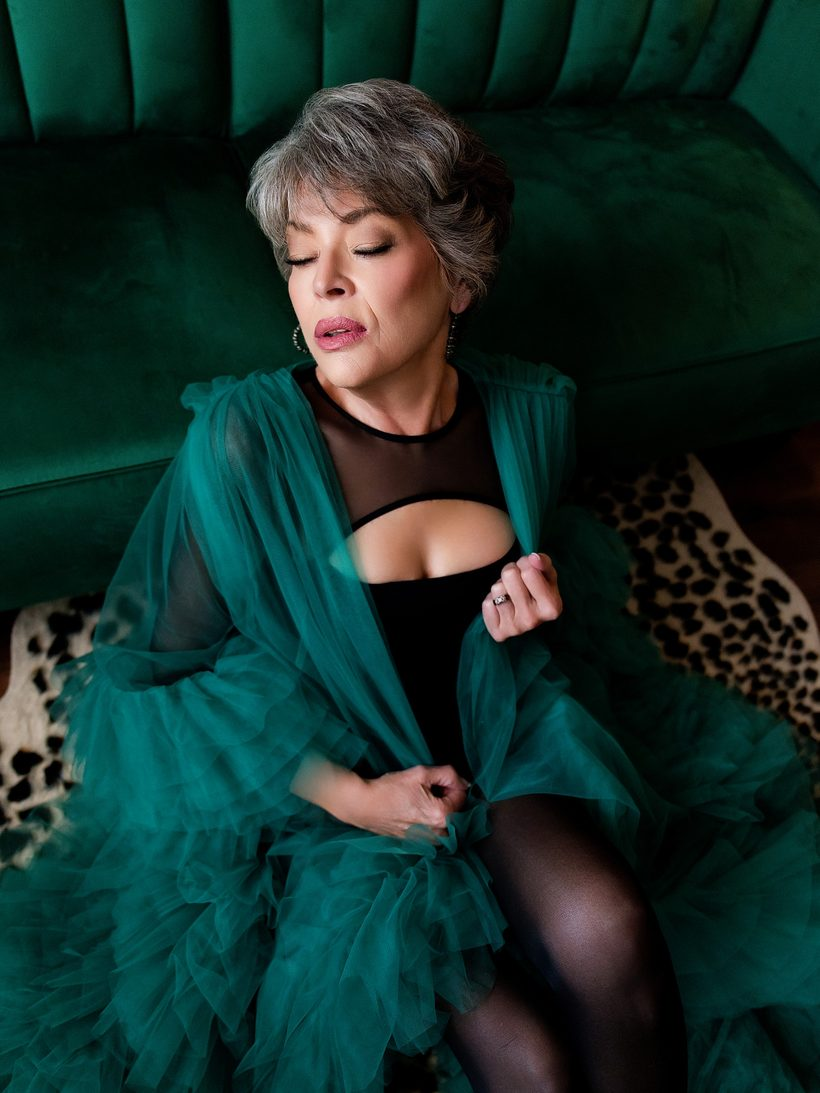
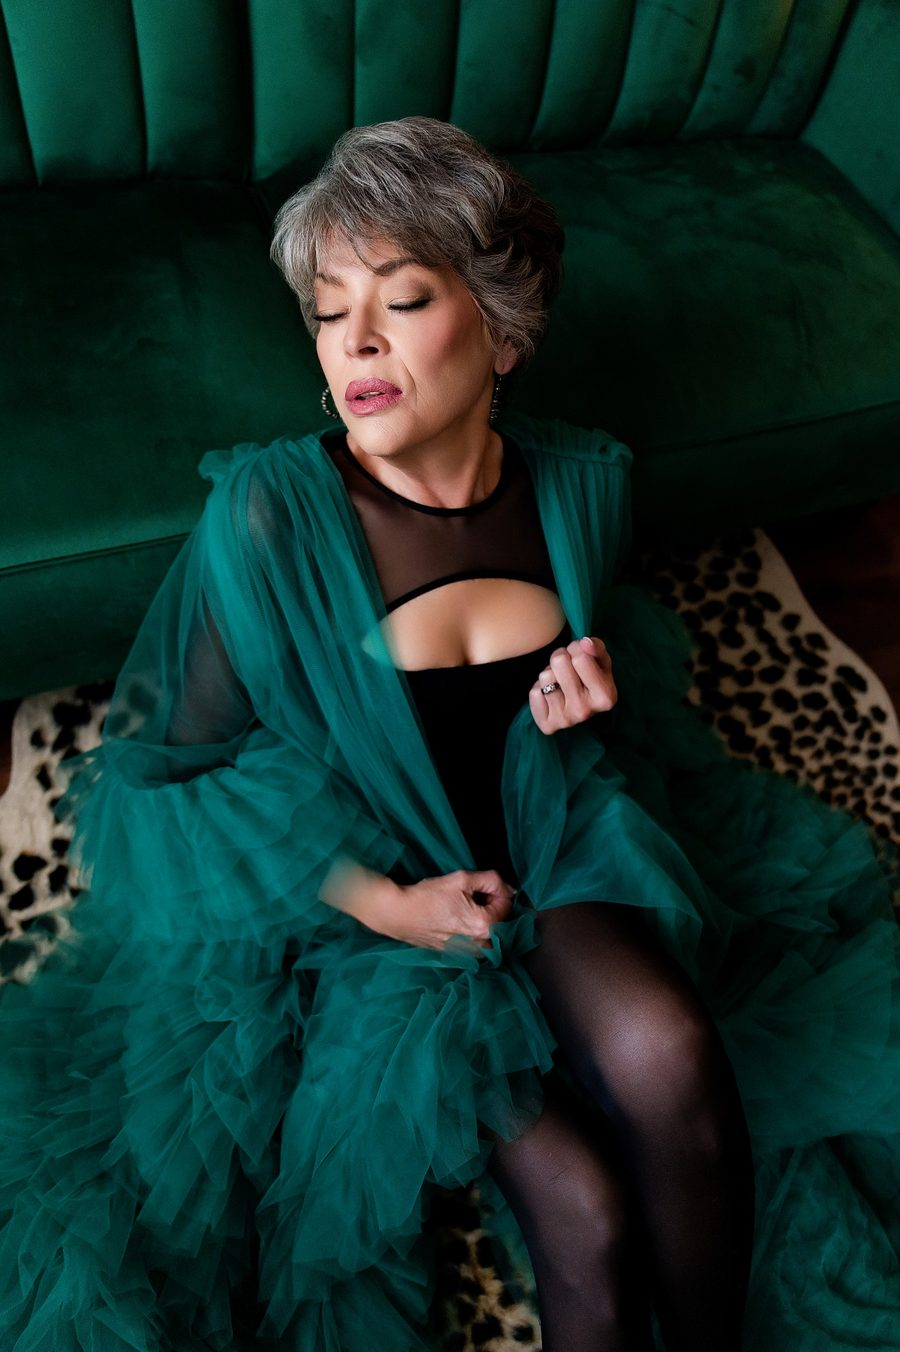
Stop cropping images to fit their containers
Every derivative is regenerated from the uncropped original, scaled to
width only. No aspect-ratio boxes, no object-fit: cover anywhere on the
page; containers now size to the photograph instead of the photograph
being trimmed to the container.

Recovered by this: the hero's full 3:2 frame rather than a 16:9 slice,
the whole standing figure in the before, and the top and bottom of
every portrait in the imagery and review rows.

Consequence, and it is visible: rows of images no longer align along
the bottom, because the pictures are different shapes. Grids switched
to align-items:start so they sit honestly rather than stretching.

DSC_0927-BW is now the only landscape frame among the three reviews and
sits noticeably shorter than its neighbours. Flagged in the kit rather
than silently swapped, since picking images is Jessica's call.

Kit and picker updated to match: the guidance said to crop to 16:9 and
3:4, the picker labelled each slot with a ratio and shaped its previews
with object-fit. All of that now says full frame.

Claude-Session: https://claude.ai/code/session_01WUSgWYuPdNHtkfGKppnMt9

diff --git a/dark-studio-identity.html b/dark-studio-identity.html
@@ -117,18 +117,17 @@
   .mk-nav span{font-family:var(--sans); font-weight:400; font-size:9.5px; letter-spacing:.24em;
     text-transform:uppercase; color:var(--muted)}
   .mk-logo{font-family:var(--serif); font-size:17px; letter-spacing:.14em; color:var(--gold); text-transform:uppercase}
-  .shot{display:block; width:100%; height:100%; object-fit:cover; max-width:100%;
+  .shot{display:block; width:100%; height:auto; max-width:100%;
     filter:saturate(.96) contrast(1.02)}
   .shotbox{overflow:hidden; position:relative;
     background:
       repeating-linear-gradient(135deg, rgba(201,162,75,.05) 0 2px, transparent 2px 9px),
       linear-gradient(160deg, #2A221B 0%, #1A1512 60%, #221A14 100%)}
-  .ph-note{position:absolute; left:50%; top:50%; transform:translate(-50%,-50%);
+  .ph-note{position:absolute; left:50%; top:50%; transform:translate(-50%,-50%); pointer-events:none;
     font-family:var(--mono); font-size:9.5px; letter-spacing:.14em; text-transform:uppercase;
     color:var(--dim); text-align:center; width:90%; line-height:1.5}
   .mk-strip{display:grid; grid-template-columns:repeat(4,1fr); gap:10px; max-width:1000px; margin:0 auto}
   @media (max-width:620px){ .mk-strip{grid-template-columns:repeat(2,1fr)} }
-  .mk-strip .shotbox{aspect-ratio:3/4}
   .mk-ticker{border-top:1px solid var(--line-soft); border-bottom:1px solid var(--line-soft);
     padding:13px 0; overflow:hidden; white-space:nowrap; background:var(--surface)}
   .mk-ticker span{font-family:var(--sans); font-size:10.5px; letter-spacing:.26em; text-transform:uppercase;
@@ -143,16 +142,14 @@
   .mk-q .qa{font-family:var(--sans); font-size:9.5px; letter-spacing:.2em; text-transform:uppercase; color:var(--gold); margin:0}
   .mk-q.slot .qt{color:var(--dim); font-style:normal; font-family:var(--mono); font-size:11px; letter-spacing:.1em; text-transform:uppercase; line-height:1.7}
   .mk-two-cta{display:flex; gap:12px; justify-content:center; flex-wrap:wrap; margin-top:20px}
-  .mk-trio{display:grid; grid-template-columns:repeat(3,1fr); gap:14px; max-width:940px; margin:0 auto}
+  .mk-trio{display:grid; grid-template-columns:repeat(3,1fr); gap:14px; max-width:940px; margin:0 auto; align-items:start}
   @media (max-width:700px){ .mk-trio{grid-template-columns:1fr} }
-  .mk-trio .shotbox{aspect-ratio:3/4}
   .mk-empower{font-family:var(--serif); font-weight:400; font-size:clamp(21px,3.2vw,29px);
     line-height:1.5; color:var(--ink); max-width:26ch; margin:0 auto; text-align:center}
   .mk-empower .hi{color:var(--gold-bright)}
-  .mk-rev{display:grid; grid-template-columns:repeat(3,1fr); gap:18px; max-width:980px; margin:26px auto 0}
+  .mk-rev{display:grid; grid-template-columns:repeat(3,1fr); gap:18px; max-width:980px; margin:26px auto 0; align-items:start}
   @media (max-width:760px){ .mk-rev{grid-template-columns:1fr} }
   .mk-rev article{background:var(--surface); border:1px solid var(--line-soft); border-radius:3px; overflow:hidden}
-  .mk-rev .shotbox{aspect-ratio:3/4}
   .mk-rev .rv{padding:18px 18px 20px}
   .mk-rev .stars{color:var(--gold); font-size:12px; letter-spacing:.24em; margin:0 0 10px}
   .mk-rev .qt{font-family:var(--serif); font-style:italic; font-size:15.5px; line-height:1.6; color:var(--muted); margin:0 0 12px}
@@ -167,11 +164,8 @@
   .mk-ghl{font-family:var(--mono); font-size:10px; letter-spacing:.12em; text-transform:uppercase;
     color:var(--dim); margin:12px 0 0; text-align:center}
   .mk-band-img{margin:24px auto 0; max-width:760px}
-  .mk-band-img .shotbox{aspect-ratio:3/2}
   .mk-hero{position:relative}
-  .mk-hero .shotbox{height:560px}
-  @media (max-width:860px){ .mk-hero .shotbox{height:440px} }
-  @media (max-width:620px){ .mk-hero .shotbox{height:400px} }
+
   .mk-hero .over{position:absolute; inset:0; display:flex; flex-direction:column;
     align-items:flex-start; justify-content:flex-end; gap:12px; text-align:left;
     padding:0 clamp(20px,5vw,56px) clamp(30px,4.5vw,48px);
@@ -182,9 +176,9 @@
   .mk-hero .ttl{font-family:var(--serif); font-weight:500; font-size:clamp(32px,6.4vw,62px); line-height:1.03; margin:0; letter-spacing:.01em}
   .mk-sec{padding:48px 30px; border-bottom:1px solid var(--line-soft)}
   @media (max-width:620px){ .mk-sec{padding:34px 18px} }
-  .mk-two{display:grid; grid-template-columns:1fr 1fr; gap:30px; align-items:center; max-width:880px; margin:0 auto}
+  .mk-two{display:grid; grid-template-columns:1fr 1fr; gap:30px; align-items:start; max-width:880px; margin:0 auto}
   @media (max-width:620px){ .mk-two{grid-template-columns:1fr; gap:20px} }
-  .mk-two .shotbox{aspect-ratio:4/5; border:1px solid var(--line-soft)}
+  .mk-two .shotbox{border:1px solid var(--line-soft)}
   .mk-kicker{font-family:var(--sans); font-size:9.5px; letter-spacing:.28em; text-transform:uppercase; color:var(--gold); margin:0 0 10px}
   .mk-h{font-family:var(--serif); font-weight:500; font-size:30px; line-height:1.16; margin:0 0 14px; letter-spacing:.02em}
   .mk-p{font-family:var(--sans); font-weight:300; font-size:14.5px; line-height:1.78; color:var(--muted); margin:0 0 18px}
@@ -199,8 +193,8 @@
     width:7px; height:1px; background:var(--gold)}
   .mk-band{background:var(--surface); padding:52px 30px; text-align:center; border-bottom:1px solid var(--line-soft)}
   .mk-band .mk-h{margin-bottom:8px}
-  .mk-ba{display:grid; grid-template-columns:1fr 1fr; gap:14px; max-width:620px; margin:22px auto 0}
-  .mk-ba .shotbox{aspect-ratio:3/4; border:1px solid var(--line-soft)}
+  .mk-ba{display:grid; grid-template-columns:1fr 1fr; gap:14px; max-width:680px; margin:22px auto 0; align-items:start}
+  .mk-ba .shotbox{border:1px solid var(--line-soft)}
   .mk-foot{padding:30px; text-align:center}
   .mk-foot .fl{display:flex; gap:20px; justify-content:center; flex-wrap:wrap; margin-bottom:14px}
   .mk-foot .fl span{font-family:var(--sans); font-size:9.5px; letter-spacing:.2em; text-transform:uppercase; color:var(--muted)}
@@ -410,7 +404,7 @@
 
         <div class="mk-sec">
           <div class="mk-two">
-            <div class="shotbox" style="aspect-ratio:4/5"><img class="shot" src="assets/jess.jpg" alt="Jessica Haslag, boudoir photographer, holding her camera"></div>
+            <div class="shotbox"><img class="shot" src="assets/jess.jpg" alt="Jessica Haslag, boudoir photographer, holding her camera"></div>
             <div>
               <p class="mk-kicker">Meet your photographer</p>
               <h3 class="mk-h" style="color:var(--ink); margin-top:0">Howdy, I&rsquo;m Jess</h3>

diff --git a/showit-revamp-kit.html b/showit-revamp-kit.html
@@ -311,7 +311,7 @@ Book a Call</div>
         <div class="paste">
           <div class="ph"><span class="loc">intro<span class="arrow">→</span>background image</span><button class="btn" type="button">Copy</button></div>
           <div class="pb">DSC_1279-BW.jpg</div>
-          <p class="note">Rear view on the emerald sofa, brick, warm lamp — the gold leaf in that painting is almost exactly <code>#C9A24B</code>. Crop to <b>16:9</b> and give it real height — around 80% of the screen on desktop. A short hero band reads like a page header; a tall one reads like a statement, and this photograph has the depth to carry it. Swap it in the picker if you prefer another.</p>
+          <p class="note">Rear view on the emerald sofa, brick, warm lamp — the gold leaf in that painting is almost exactly <code>#C9A24B</code>. Place it at <b>full frame, uncropped</b>, running the width of the page and as tall as its own proportions make it. In Showit that means sizing the image container to the photo rather than fitting the photo to a container. Swap it in the picker if you prefer another.</p>
         </div>
 
         <h3>3 &middot; Imagery + the empowering line &middot; new block</h3>
@@ -320,7 +320,7 @@ Book a Call</div>
           <div class="pb">DSC_0798-BW.jpg
 DSC_8449-BW.jpg
 DSC_2060.jpg</div>
-          <p class="note">Three frames at 3:4, side by side, stacking on mobile. <b>Chosen for range, not for being the three best.</b> An older client, a plus-size client, a tattooed redhead — &ldquo;every age, every size, every body&rdquo; has to be visible here, because this is the block that claims it.</p>
+          <p class="note">Three full frames side by side, stacking on mobile. Size each container to its photograph rather than cropping all three to a shared shape. <b>Chosen for range, not for being the three best.</b> An older client, a plus-size client, a tattooed redhead — &ldquo;every age, every size, every body&rdquo; has to be visible here, because this is the block that claims it.</p>
         </div>
 
         <div class="paste">
@@ -398,7 +398,7 @@ What they said afterwards</div>
           <div class="pb">DSC_0475-BW.jpg
 DSC_0927-BW.jpg
 DSC_1803.jpg</div>
-          <p class="note">One face per review, 3:4, above each quote. A review with a photograph attached reads as a person; a review on its own reads as copy.</p>
+          <p class="note">One face per review above each quote, uncropped. A review with a photograph attached reads as a person; a review on its own reads as copy.</p>
         </div>
 
         <div class="paste">
@@ -465,6 +465,11 @@ Blog
 Book a Call
 Privacy Policy</div>
           <p class="note">Specialty Sessions and Blog live here rather than in the top nav. Keep the social icons — but the first one currently points at <code>#/</code> and goes nowhere.</p>
+        </div>
+
+        <div class="callout">
+          <p><b>Nothing gets cropped.</b> Every photograph on this page runs at its own proportions. Boxes size to the image, not the other way round, so a frame you composed never gets re-composed by a container. The practical consequence: rows of images no longer line up along the bottom, because the pictures are different shapes. That is the correct trade, but it is a visible one.</p>
+          <p><b>One to look at.</b> <code>DSC_0927-BW</code> in review 2 is the only landscape frame among the three reviews, so that card sits noticeably shorter than its neighbours. Swap it for a portrait frame in the picker if the row bothers you.</p>
         </div>
 
         <div class="callout" style="margin-top:26px">

diff --git a/photo-picker.html b/photo-picker.html
@@ -37,9 +37,9 @@
     color:var(--ink); transition:border-color .15s; display:flex; flex-direction:column}
   .slot:hover{border-color:var(--line)}
   .slot.active{border-color:var(--gold); box-shadow:0 0 0 1px var(--gold)}
-  .slot .thumb{aspect-ratio:3/2; background:var(--raised); display:flex; align-items:center;
+  .slot .thumb{min-height:62px; background:var(--raised); display:flex; align-items:center;
     justify-content:center; overflow:hidden; position:relative}
-  .slot .thumb img{width:100%; height:100%; object-fit:cover; display:block}
+  .slot .thumb img{width:100%; height:auto; display:block}
   .slot .thumb .none{font-family:var(--mono); font-size:9.5px; letter-spacing:.14em;
     text-transform:uppercase; color:var(--dim)}
   .slot .meta{padding:8px 10px 9px}
@@ -136,21 +136,21 @@
   <div class="note">
     <p><b>Your five headshots are first in the grid.</b> The portrait slot is pre-set to <code>6Y2A9514</code> &mdash; the one with direct eye contact, which is what block 4 needs. Change it if you disagree.</p>
     <p><b>The before/after pair isn&rsquo;t here.</b> Nothing in this folder can fill it. Send your Briana and Taylor pairs and I&rsquo;ll drop them into block 5.</p>
-    <p><b>Aspect ratios are how the slot crops</b>, not how the photo is shaped. A tall frame in the 16:7 hero loses its top and bottom, so pick something that survives a wide crop &mdash; or pick it anyway and tell me where to bias the crop.</p>
+    <p><b>Nothing is cropped any more.</b> Every slot shows the whole frame at its own proportions, so you can pick any photograph for any slot without losing its top or bottom. Rows of different-shaped photos will not line up along the bottom, which is the honest trade.</p>
   </div>
 </div>
 
 <script>
 (function(){
   var SLOTS = [
-    {key:"hero",     name:"Hero",             ar:"16:7", hint:"block 2 \u00b7 headline sits bottom-left"},
-    {key:"empower1", name:"Imagery 1",        ar:"3:4",  hint:"block 3"},
-    {key:"empower2", name:"Imagery 2",        ar:"3:4",  hint:"block 3"},
-    {key:"empower3", name:"Imagery 3",        ar:"3:4",  hint:"block 3"},
-    {key:"jess",     name:"Portrait of Jess", ar:"4:5",  hint:"block 4"},
-    {key:"review1",  name:"Review 1",         ar:"3:4",  hint:"block 6"},
-    {key:"review2",  name:"Review 2",         ar:"3:4",  hint:"block 6"},
-    {key:"review3",  name:"Review 3",         ar:"3:4",  hint:"block 6"}
+    {key:"hero",     name:"Hero",             ar:"full frame", hint:"block 2 \u00b7 headline sits bottom-left"},
+    {key:"empower1", name:"Imagery 1",        ar:"full frame", hint:"block 3"},
+    {key:"empower2", name:"Imagery 2",        ar:"full frame", hint:"block 3"},
+    {key:"empower3", name:"Imagery 3",        ar:"full frame", hint:"block 3"},
+    {key:"jess",     name:"Portrait of Jess", ar:"full frame", hint:"block 4"},
+    {key:"review1",  name:"Review 1",         ar:"full frame", hint:"block 6"},
+    {key:"review2",  name:"Review 2",         ar:"full frame", hint:"block 6"},
+    {key:"review3",  name:"Review 3",         ar:"full frame", hint:"block 6"}
   ];
   var CURRENT = {hero:"DSC_1279-BW", empower1:"DSC_0798-BW", empower2:"DSC_8449-BW",
                  empower3:"DSC_2060", jess:"6Y2A9514", review1:"DSC_0475-BW",
@@ -174,7 +174,6 @@
       b.setAttribute("data-slot", s.key);
       var th = document.createElement("div");
       th.className = "thumb";
-      th.style.aspectRatio = s.ar.replace(":", "/");
       var v = picks[s.key];
       if(v){
         var im = document.createElement("img");
